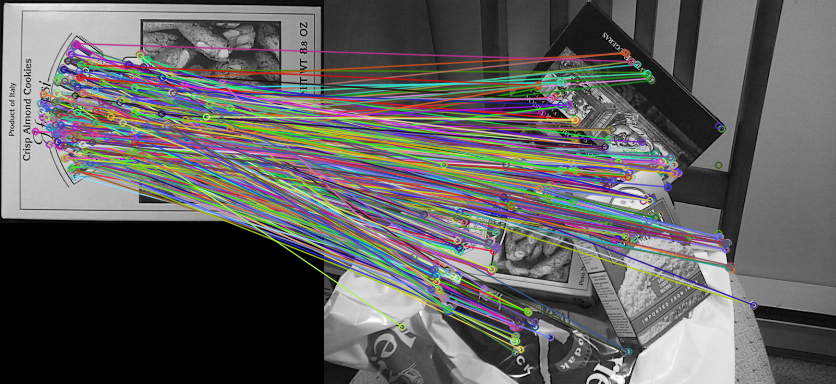
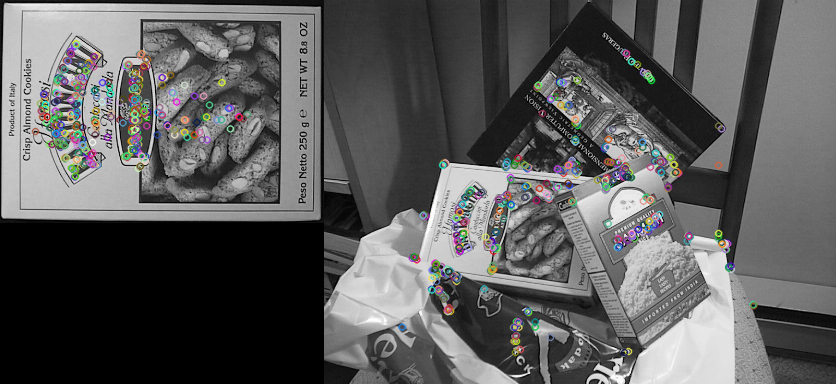
update

diff --git a/900-Others/250-Image/020-OpenCv/FeatureDescriptorExample/src/main/java/com/techoffice/example/Appl.java b/900-Others/250-Image/020-OpenCv/FeatureDescriptorExample/src/main/java/com/techoffice/example/Appl.java
@@ -68,9 +68,9 @@ public class Appl {
 		DescriptorMatcher descriptorMatcher = DescriptorMatcher.create(DescriptorMatcher.BRUTEFORCE);
 		descriptorMatcher.match(descriptors1, descriptors1, matches);
 		
-		Mat found = new Mat();
-		Features2d.drawMatches(grayMat1, keypoints1, grayMat2, keypoints2, matches, found);
-		Imgcodecs.imwrite("match.png", found);
+//		Mat found = new Mat();
+//		Features2d.drawMatches(grayMat1, keypoints1, grayMat2, keypoints2, matches, found);
+//		Imgcodecs.imwrite("match.png", found);
 
 		// 
 		List<DMatch> matchesList = matches.toList();
@@ -79,10 +79,11 @@ public class Appl {
 
         for (int i = 0; i < matchesList.size(); i++) {
             float dist =  matchesList.get(i).distance;
-            
+            if(dist != 0 ){
             	System.out.println(dist);
             	bestMatchesList.add(matchesList.get(i));
-            
+            }
+
         }
         bestMatches.fromList(bestMatchesList);
         
